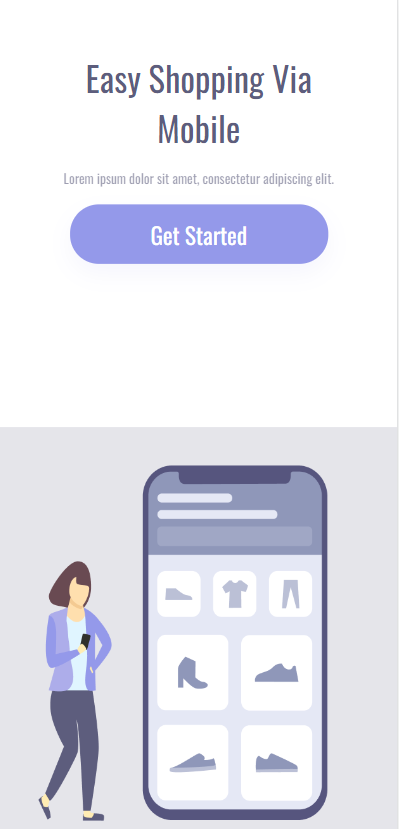
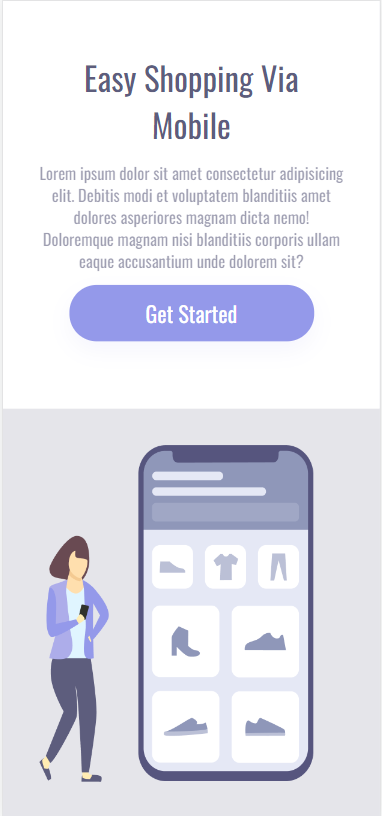
alterações no css, e nas imagens da pasta assets

diff --git a/styles.css b/styles.css
@@ -10,13 +10,13 @@
 
 .container {
     height: 100vh;
-    max-width: 100vw;
+    width: 80vw;
 }
 
 .container-left {
     display: inline-block;
     width: 60%;
-    margin: 381px 131px 0 136px;
+    margin: 381px 131px 0 100px;
 }
 
 .container-right {
@@ -24,8 +24,9 @@
     background-color: rgba(93, 93, 125, 0.16);
     mix-blend-mode: normal;
     height: 100vh;
-    width: 40%;
+    width: 42%;
     position: absolute;
+    right: 0;
 }
 
 .logo {
@@ -101,7 +102,8 @@ header {
 
 @media (max-width: 900px) {
     .container {
-        width: auto;
+        width: 100vw;
+        height: 100vh;
     }
     .container-left {
         width: 100%;
@@ -137,7 +139,7 @@ header {
     }
 
     .paragraph-section {
-        font-size: 14px;
+        font-size: 18px;
         line-height: 24px;
         text-align: center;
         margin: 15px 40px;
@@ -156,6 +158,6 @@ header {
 
 @media screen and (max-width: 380px) {
     .container-left {
-        height: 70%;
+        height: 55%;
     }
 }

diff --git a/index.html b/index.html
@@ -12,7 +12,11 @@
             <section class="container-left">
                 <h1 class="title-section">Easy Shopping Via Mobile</h1>
                 <p class="paragraph-section">
-                    Lorem ipsum dolor sit amet, consectetur adipiscing elit.
+                    Lorem ipsum dolor sit amet consectetur adipisicing elit.
+                    Debitis modi et voluptatem blanditiis amet dolores
+                    asperiores magnam dicta nemo! Doloremque magnam nisi
+                    blanditiis corporis ullam eaque accusantium unde dolorem
+                    sit?
                 </p>
                 <button class="btn-section">Get Started</button>
             </section>
